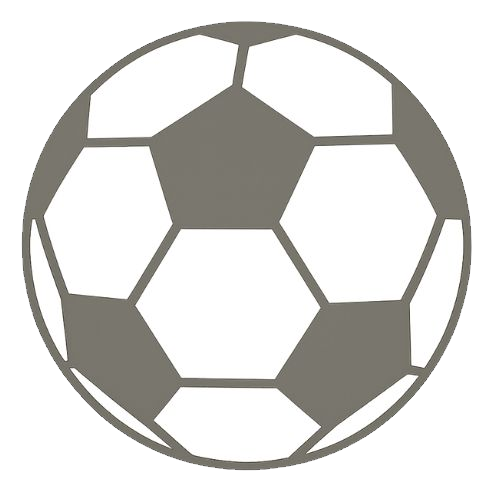
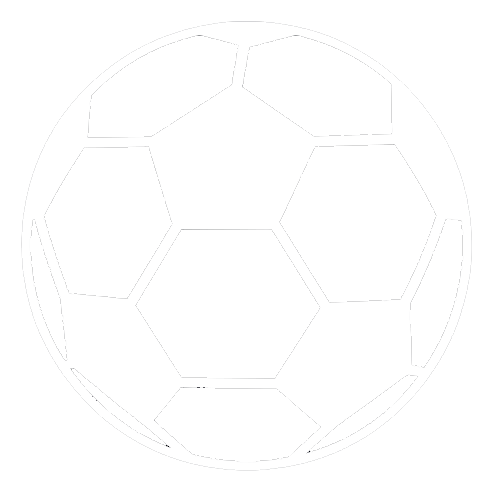
Se arreglan algunos iconos en general

Changed region(s): [[0.03, 0.03, 0.96, 0.96]]

diff --git a/src/components/AccesoContent.vue b/src/components/AccesoContent.vue
@@ -37,6 +37,10 @@
 
       <!-- CARD 2: UNIRSE -->
       <div class="card join">
+        <div class="avatar">
+          <img :src="ligaImg" />
+        </div>
+
         <h3>Unirse a liga</h3>
         <p>Ingresa tu código de invitación</p>
 
@@ -47,6 +51,10 @@
 
       <!-- CARD 3: LIGA -->
       <div class="card league">
+        <div class="avatar">
+          <img :src="campeonImg" />
+        </div>
+
         <h3>Liga Campeones</h3>
 
         <!-- SI NO HA ELEGIDO -->
@@ -72,6 +80,8 @@
 
 <script setup>
 import userImg from '@/assets/user.png'
+import ligaImg from '@/assets/liga.png'
+import campeonImg from '@/assets/campeon.png'
 import bgImg from '@/assets/hero-bg.jpg' 
 </script>
 
